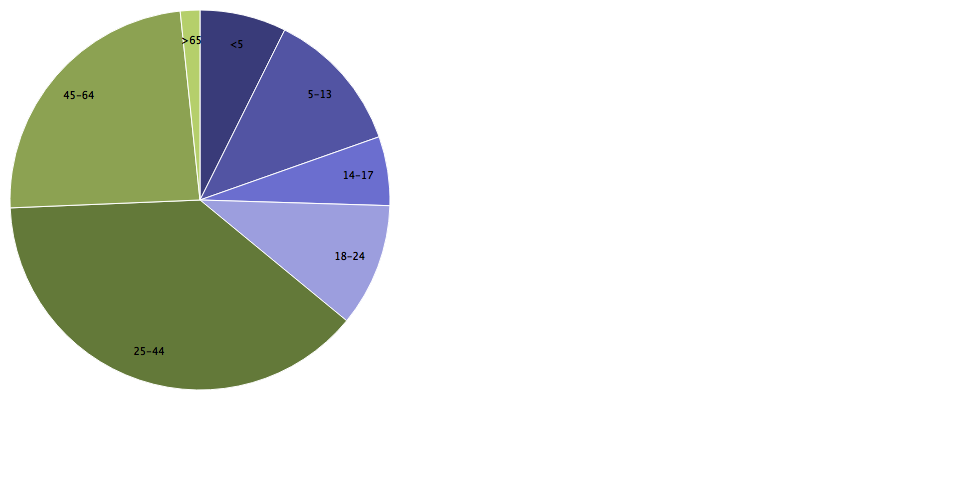
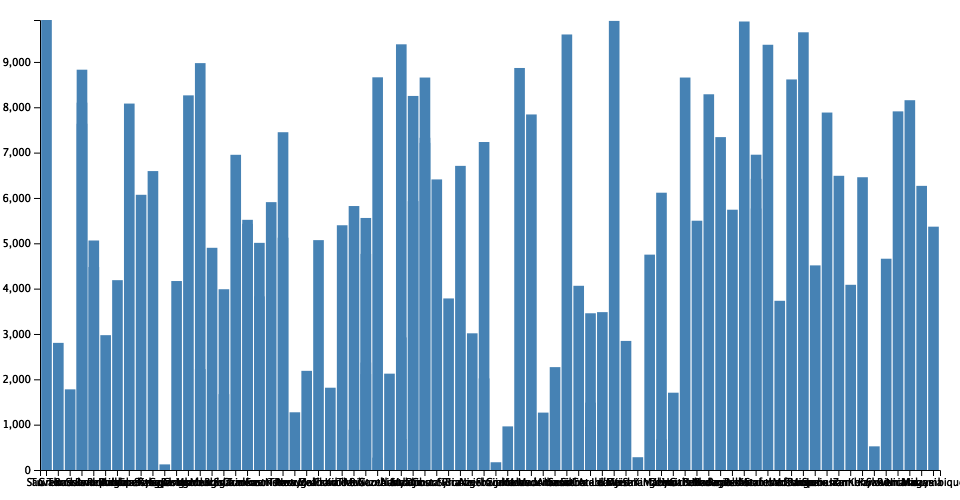
Changing default styles from CSS to SCSS

diff --git a/announcements-node/output.html b/announcements-node/output.html
@@ -1,8 +1,8 @@
 <html><head></head><body><div id="container">
-      <h2>Pie Chart</h2>
+      <h2>Bar Chart</h2>
       <div id="chart"><svg xmlns="http://www.w3.org/2000/svg" width="960" height="500"><defs><style type="text/css"><![CDATA[ 
-    .arc text {font: 10px sans-serif; text-anchor: middle;}
-    .arc path {stroke: #fff;}
-   ]]></style></defs><g transform="translate( 200 , 200 )"><g class="arc"><path d="M1.1634144591899855e-14,-190A190,190,0,0,1,84.74735355689664,-170.05259793693938L0,0Z" style="fill: #393b79;"></path><text transform="translate(36.65821846585564,-155.74394055278555)" dy=".35em">&lt;5</text></g><g class="arc"><path d="M84.74735355689664,-170.05259793693938A190,190,0,0,1,179.1708225838209,-63.228287456145594L0,0Z" style="fill: #5254a3;"></path><text transform="translate(119.88118735480641,-105.96462106949565)" dy=".35em">5-13</text></g><g class="arc"><path d="M179.1708225838209,-63.228287456145594A190,190,0,0,1,189.91463948905843,5.694708749441913L0,0Z" style="fill: #6b6ecf;"></path><text transform="translate(158.09080190056423,-24.64342416216873)" dy=".35em">14-17</text></g><g class="arc"><path d="M189.91463948905843,5.694708749441913A190,190,0,0,1,146.6886213390588,120.75780873155253L0,0Z" style="fill: #9c9ede;"></path><text transform="translate(149.7795371502396,56.26802156696109)" dy=".35em">18-24</text></g><g class="arc"><path d="M146.6886213390588,120.75780873155253A190,190,0,0,1,-189.83659389354435,7.8783005082015025L0,0Z" style="fill: #637939;"></path><text transform="translate(-50.88213468284223,151.69379806082088)" dy=".35em">25-44</text></g><g class="arc"><path d="M-189.83659389354435,7.8783005082015025A190,190,0,0,1,-19.855624283330453,-188.95966284982416L0,0Z" style="fill: #8ca252;"></path><text transform="translate(-121.0963839891443,-104.57373372292736)" dy=".35em">45-64</text></g><g class="arc"><path d="M-19.855624283330453,-188.95966284982416A190,190,0,0,1,-2.0365633351872334e-13,-190L0,0Z" style="fill: #b5cf6b;"></path><text transform="translate(-8.371730476415376,-159.78083154380647)" dy=".35em">&gt;65</text></g></g></svg></div>
+    .bar { fill: steelblue; }
+    .bar:hover { fill: brown; }
+   ]]></style></defs><g transform="translate(40, 20)"><rect class="bar" x="1.1826544021025711" width="10.643889618922469" y="0" height="450"></rect><rect class="bar" x="13.009198423127536" width="10.643889618922469" y="322.86649874055416" height="127.13350125944584"></rect><rect class="bar" x="24.8357424441525" width="10.643889618922469" y="369.34005037783373" height="80.65994962216627"></rect><rect class="bar" x="36.662286465177466" width="10.643889618922469" y="82.65491183879095" height="367.34508816120905"></rect><rect class="bar" x="48.48883048620243" width="10.643889618922469" y="220.48866498740557" height="229.51133501259443"></rect><rect class="bar" x="60.315374507227396" width="10.643889618922469" y="315.1586901763224" height="134.8413098236776"></rect><rect class="bar" x="72.14191852825236" width="10.643889618922469" y="260.16120906801007" height="189.83879093198993"></rect><rect class="bar" x="83.96846254927732" width="10.643889618922469" y="83.56171284634763" height="366.43828715365237"></rect><rect class="bar" x="95.79500657030229" width="10.643889618922469" y="174.78589420654913" height="275.21410579345087"></rect><rect class="bar" x="107.62155059132726" width="10.643889618922469" y="151.07304785894206" height="298.92695214105794"></rect><rect class="bar" x="119.44809461235222" width="10.643889618922469" y="444.3778337531486" height="5.622166246851407"></rect><rect class="bar" x="131.27463863337718" width="10.643889618922469" y="261.0226700251889" height="188.97732997481108"></rect><rect class="bar" x="143.10118265440215" width="10.643889618922469" y="75.35516372795968" height="374.6448362720403"></rect><rect class="bar" x="154.92772667542712" width="10.643889618922469" y="43.11838790931989" height="406.8816120906801"></rect><rect class="bar" x="166.75427069645207" width="10.643889618922469" y="227.78841309823676" height="222.21158690176324"></rect><rect class="bar" x="178.58081471747704" width="10.643889618922469" y="374.1460957178841" height="75.85390428211588"></rect><rect class="bar" x="190.407358738502" width="10.643889618922469" y="134.79596977329976" height="315.20403022670024"></rect><rect class="bar" x="202.23390275952698" width="10.643889618922469" y="203.80352644836273" height="246.19647355163727"></rect><rect class="bar" x="214.06044678055196" width="10.643889618922469" y="276.3476070528967" height="173.6523929471033"></rect><rect class="bar" x="225.8869908015769" width="10.643889618922469" y="182.13098236775818" height="267.8690176322418"></rect><rect class="bar" x="237.71353482260187" width="10.643889618922469" y="112.21662468513853" height="337.7833753148615"></rect><rect class="bar" x="249.54007884362684" width="10.643889618922469" y="392.2821158690176" height="57.717884130982384"></rect><rect class="bar" x="154.92772667542712" width="10.643889618922469" y="349.1183879093199" height="100.88161209068011"></rect><rect class="bar" x="261.3666228646518" width="10.643889618922469" y="350.8413098236776" height="99.15869017632241"></rect><rect class="bar" x="273.19316688567676" width="10.643889618922469" y="220.12594458438284" height="229.87405541561716"></rect><rect class="bar" x="285.01971090670173" width="10.643889618922469" y="367.70780856423175" height="82.29219143576825"></rect><rect class="bar" x="296.8462549277267" width="10.643889618922469" y="205.25440806045341" height="244.74559193954659"></rect><rect class="bar" x="308.6727989487517" width="10.643889618922469" y="186.0302267002519" height="263.9697732997481"></rect><rect class="bar" x="237.71353482260187" width="10.643889618922469" y="217.67758186397984" height="232.32241813602016"></rect><rect class="bar" x="320.49934296977665" width="10.643889618922469" y="342.544080604534" height="107.45591939546603"></rect><rect class="bar" x="332.32588699080156" width="10.643889618922469" y="57.3098236775819" height="392.6901763224181"></rect><rect class="bar" x="344.15243101182654" width="10.643889618922469" y="353.6523929471033" height="96.3476070528967"></rect><rect class="bar" x="355.9789750328515" width="10.643889618922469" y="317.42569269521414" height="132.57430730478586"></rect><rect class="bar" x="367.8055190538765" width="10.643889618922469" y="75.94458438287154" height="374.05541561712846"></rect><rect class="bar" x="379.63206307490145" width="10.643889618922469" y="117.7934508816121" height="332.2065491183879"></rect><rect class="bar" x="391.4586070959264" width="10.643889618922469" y="159.41561712846345" height="290.58438287153655"></rect><rect class="bar" x="403.2851511169514" width="10.643889618922469" y="278.43324937027705" height="171.56675062972295"></rect><rect class="bar" x="320.49934296977665" width="10.643889618922469" y="233.8639798488665" height="216.1360201511335"></rect><rect class="bar" x="415.11169513797637" width="10.643889618922469" y="145.8589420654912" height="304.1410579345088"></rect><rect class="bar" x="178.58081471747704" width="10.643889618922469" y="269.2292191435768" height="180.7707808564232"></rect><rect class="bar" x="426.93823915900134" width="10.643889618922469" y="313.2997481108313" height="136.70025188916873"></rect><rect class="bar" x="438.76478318002626" width="10.643889618922469" y="122.01007556675063" height="327.98992443324937"></rect><rect class="bar" x="320.49934296977665" width="10.643889618922469" y="354.01511335012594" height="95.98488664987406"></rect><rect class="bar" x="450.59132720105123" width="10.643889618922469" y="442.2468513853904" height="7.753148614609586"></rect><rect class="bar" x="367.8055190538765" width="10.643889618922469" y="181.13350125944584" height="268.86649874055416"></rect><rect class="bar" x="462.4178712220762" width="10.643889618922469" y="406.3828715365239" height="43.61712846347609"></rect><rect class="bar" x="474.2444152431012" width="10.643889618922469" y="47.96977329974811" height="402.0302267002519"></rect><rect class="bar" x="332.32588699080156" width="10.643889618922469" y="437.6221662468514" height="12.377833753148593"></rect><rect class="bar" x="486.07095926412615" width="10.643889618922469" y="94.44332493702768" height="355.5566750629723"></rect><rect class="bar" x="497.8975032851511" width="10.643889618922469" y="392.59949622166243" height="57.400503778337566"></rect><rect class="bar" x="509.7240473061761" width="10.643889618922469" y="347.1234256926952" height="102.8765743073048"></rect><rect class="bar" x="521.550591327201" width="10.643889618922469" y="14.463476070528998" height="435.536523929471"></rect><rect class="bar" x="533.377135348226" width="10.643889618922469" y="265.7833753148615" height="184.21662468513853"></rect><rect class="bar" x="545.203679369251" width="10.643889618922469" y="293.25944584382876" height="156.74055415617124"></rect><rect class="bar" x="36.662286465177466" width="10.643889618922469" y="103.73803526448364" height="346.26196473551636"></rect><rect class="bar" x="557.030223390276" width="10.643889618922469" y="292.12594458438286" height="157.87405541561714"></rect><rect class="bar" x="568.8567674113009" width="10.643889618922469" y="0.9068010075566804" height="449.0931989924433"></rect><rect class="bar" x="580.6833114323258" width="10.643889618922469" y="320.9168765743073" height="129.0831234256927"></rect><rect class="bar" x="592.5098554533508" width="10.643889618922469" y="437.21410579345087" height="12.78589420654913"></rect><rect class="bar" x="379.63206307490145" width="10.643889618922469" y="122.87153652392948" height="327.1284634760705"></rect><rect class="bar" x="355.9789750328515" width="10.643889618922469" y="419.0780856423174" height="30.921914357682624"></rect><rect class="bar" x="604.3363994743758" width="10.643889618922469" y="234.63476070528966" height="215.36523929471034"></rect><rect class="bar" x="202.23390275952698" width="10.643889618922469" y="199.81360201511336" height="250.18639798488664"></rect><rect class="bar" x="616.1629434954008" width="10.643889618922469" y="172.70025188916878" height="277.2997481108312"></rect><rect class="bar" x="627.9894875164257" width="10.643889618922469" y="372.69521410579347" height="77.30478589420653"></rect><rect class="bar" x="48.48883048620243" width="10.643889618922469" y="247.0125944584383" height="202.9874055415617"></rect><rect class="bar" x="639.8160315374507" width="10.643889618922469" y="57.53652392947106" height="392.46347607052894"></rect><rect class="bar" x="651.6425755584756" width="10.643889618922469" y="200.72040302267004" height="249.27959697732996"></rect><rect class="bar" x="663.4691195795006" width="10.643889618922469" y="74.26700251889167" height="375.7329974811083"></rect><rect class="bar" x="675.2956636005256" width="10.643889618922469" y="117.11335012594458" height="332.8866498740554"></rect><rect class="bar" x="214.06044678055196" width="10.643889618922469" y="222.8463476070529" height="227.1536523929471"></rect><rect class="bar" x="616.1629434954008" width="10.643889618922469" y="419.4861460957179" height="30.513853904282087"></rect><rect class="bar" x="687.1222076215505" width="10.643889618922469" y="189.70277078085638" height="260.2972292191436"></rect><rect class="bar" x="379.63206307490145" width="10.643889618922469" y="57.53652392947106" height="392.46347607052894"></rect><rect class="bar" x="698.9487516425755" width="10.643889618922469" y="1.4962216624685425" height="448.50377833753146"></rect><rect class="bar" x="710.7752956636004" width="10.643889618922469" y="134.7052896725441" height="315.2947103274559"></rect><rect class="bar" x="722.6018396846255" width="10.643889618922469" y="24.755667506297243" height="425.24433249370276"></rect><rect class="bar" x="734.4283837056504" width="10.643889618922469" y="280.79093198992445" height="169.20906801007555"></rect><rect class="bar" x="746.2549277266754" width="10.643889618922469" y="59.440806045340025" height="390.55919395466"></rect><rect class="bar" x="758.0814717477003" width="10.643889618922469" y="12.287153652392988" height="437.712846347607"></rect><rect class="bar" x="769.9080157687252" width="10.643889618922469" y="245.38035264483628" height="204.61964735516372"></rect><rect class="bar" x="781.7345597897503" width="10.643889618922469" y="92.53904282115872" height="357.4609571788413"></rect><rect class="bar" x="793.5611038107752" width="10.643889618922469" y="155.7884130982368" height="294.2115869017632"></rect><rect class="bar" x="805.3876478318002" width="10.643889618922469" y="264.78589420654913" height="185.21410579345087"></rect><rect class="bar" x="817.2141918528251" width="10.643889618922469" y="157.2392947103275" height="292.7607052896725"></rect><rect class="bar" x="710.7752956636004" width="10.643889618922469" y="158.82619647355165" height="291.17380352644835"></rect><rect class="bar" x="36.662286465177466" width="10.643889618922469" y="49.69269521410581" height="400.3073047858942"></rect><rect class="bar" x="320.49934296977665" width="10.643889618922469" y="197.95465994962217" height="252.04534005037783"></rect><rect class="bar" x="829.0407358738502" width="10.643889618922469" y="426.33249370277076" height="23.667506297229238"></rect><rect class="bar" x="840.8672798948751" width="10.643889618922469" y="238.7153652392947" height="211.2846347607053"></rect><rect class="bar" x="545.203679369251" width="10.643889618922469" y="407.0176322418136" height="42.9823677581864"></rect><rect class="bar" x="355.9789750328515" width="10.643889618922469" y="24.302267002518875" height="425.6977329974811"></rect><rect class="bar" x="438.76478318002626" width="10.643889618922469" y="358.36775818639796" height="91.63224181360204"></rect><rect class="bar" x="852.6938239159001" width="10.643889618922469" y="91.36020151133499" height="358.639798488665"></rect><rect class="bar" x="864.520367936925" width="10.643889618922469" y="80.20654911838795" height="369.79345088161205"></rect><rect class="bar" x="308.6727989487517" width="10.643889618922469" y="409.73803526448364" height="40.26196473551636"></rect><rect class="bar" x="876.3469119579499" width="10.643889618922469" y="165.85390428211588" height="284.1460957178841"></rect><rect class="bar" x="545.203679369251" width="10.643889618922469" y="382.6700251889169" height="67.3299748110831"></rect><rect class="bar" x="710.7752956636004" width="10.643889618922469" y="188.52392947103272" height="261.4760705289673"></rect><rect class="bar" x="888.173455978975" width="10.643889618922469" y="206.65994962216624" height="243.34005037783376"></rect><g transform="translate(0,450)" fill="none" font-size="10" font-family="sans-serif" text-anchor="middle"><path class="domain" stroke="#000" d="M0.5,6V0.5H900.5V6"></path><g class="tick" opacity="1" transform="translate(6.504599211563805,0)"><line stroke="#000" y2="6"></line><text fill="#000" y="9" dy="0.71em">Tuvalu</text></g><g class="tick" opacity="1" transform="translate(18.331143232588772,0)"><line stroke="#000" y2="6"></line><text fill="#000" y="9" dy="0.71em">Grenada</text></g><g class="tick" opacity="1" transform="translate(30.157687253613737,0)"><line stroke="#000" y2="6"></line><text fill="#000" y="9" dy="0.71em">Russia</text></g><g class="tick" opacity="1" transform="translate(41.9842312746387,0)"><line stroke="#000" y2="6"></line><text fill="#000" y="9" dy="0.71em">Sao Tome and Principe</text></g><g class="tick" opacity="1" transform="translate(53.81077529566367,0)"><line stroke="#000" y2="6"></line><text fill="#000" y="9" dy="0.71em">Rwanda</text></g><g class="tick" opacity="1" transform="translate(65.63731931668863,0)"><line stroke="#000" y2="6"></line><text fill="#000" y="9" dy="0.71em">Solomon Islands</text></g><g class="tick" opacity="1" transform="translate(77.46386333771359,0)"><line stroke="#000" y2="6"></line><text fill="#000" y="9" dy="0.71em">Angola</text></g><g class="tick" opacity="1" transform="translate(89.29040735873855,0)"><line stroke="#000" y2="6"></line><text fill="#000" y="9" dy="0.71em">Burkina Faso</text></g><g class="tick" opacity="1" transform="translate(101.11695137976352,0)"><line stroke="#000" y2="6"></line><text fill="#000" y="9" dy="0.71em">Republic of the Congo</text></g><g class="tick" opacity="1" transform="translate(112.94349540078849,0)"><line stroke="#000" y2="6"></line><text fill="#000" y="9" dy="0.71em">Senegal</text></g><g class="tick" opacity="1" transform="translate(124.77003942181345,0)"><line stroke="#000" y2="6"></line><text fill="#000" y="9" dy="0.71em">Kyrgyzstan</text></g><g class="tick" opacity="1" transform="translate(136.5965834428384,0)"><line stroke="#000" y2="6"></line><text fill="#000" y="9" dy="0.71em">Cape Verde</text></g><g class="tick" opacity="1" transform="translate(148.42312746386338,0)"><line stroke="#000" y2="6"></line><text fill="#000" y="9" dy="0.71em">Bangladesh</text></g><g class="tick" opacity="1" transform="translate(160.24967148488835,0)"><line stroke="#000" y2="6"></line><text fill="#000" y="9" dy="0.71em">Honduras</text></g><g class="tick" opacity="1" transform="translate(172.0762155059133,0)"><line stroke="#000" y2="6"></line><text fill="#000" y="9" dy="0.71em">Mongolia</text></g><g class="tick" opacity="1" transform="translate(183.90275952693827,0)"><line stroke="#000" y2="6"></line><text fill="#000" y="9" dy="0.71em">Bulgaria</text></g><g class="tick" opacity="1" transform="translate(195.72930354796324,0)"><line stroke="#000" y2="6"></line><text fill="#000" y="9" dy="0.71em">Sri Lanka</text></g><g class="tick" opacity="1" transform="translate(207.5558475689882,0)"><line stroke="#000" y2="6"></line><text fill="#000" y="9" dy="0.71em">Cameroon</text></g><g class="tick" opacity="1" transform="translate(219.38239159001319,0)"><line stroke="#000" y2="6"></line><text fill="#000" y="9" dy="0.71em">Turkmenistan</text></g><g class="tick" opacity="1" transform="translate(231.20893561103813,0)"><line stroke="#000" y2="6"></line><text fill="#000" y="9" dy="0.71em">East Timor</text></g><g class="tick" opacity="1" transform="translate(243.0354796320631,0)"><line stroke="#000" y2="6"></line><text fill="#000" y="9" dy="0.71em">Norway</text></g><g class="tick" opacity="1" transform="translate(254.86202365308807,0)"><line stroke="#000" y2="6"></line><text fill="#000" y="9" dy="0.71em">Portugal</text></g><g class="tick" opacity="1" transform="translate(266.688567674113,0)"><line stroke="#000" y2="6"></line><text fill="#000" y="9" dy="0.71em">New Zealand</text></g><g class="tick" opacity="1" transform="translate(278.515111695138,0)"><line stroke="#000" y2="6"></line><text fill="#000" y="9" dy="0.71em">Moldova </text></g><g class="tick" opacity="1" transform="translate(290.34165571616296,0)"><line stroke="#000" y2="6"></line><text fill="#000" y="9" dy="0.71em">France</text></g><g class="tick" opacity="1" transform="translate(302.16819973718793,0)"><line stroke="#000" y2="6"></line><text fill="#000" y="9" dy="0.71em">Kiribati</text></g><g class="tick" opacity="1" transform="translate(313.9947437582129,0)"><line stroke="#000" y2="6"></line><text fill="#000" y="9" dy="0.71em">Mali</text></g><g class="tick" opacity="1" transform="translate(325.8212877792379,0)"><line stroke="#000" y2="6"></line><text fill="#000" y="9" dy="0.71em">The Gambia</text></g><g class="tick" opacity="1" transform="translate(337.6478318002628,0)"><line stroke="#000" y2="6"></line><text fill="#000" y="9" dy="0.71em">Switzerland</text></g><g class="tick" opacity="1" transform="translate(349.47437582128777,0)"><line stroke="#000" y2="6"></line><text fill="#000" y="9" dy="0.71em">South Sudan</text></g><g class="tick" opacity="1" transform="translate(361.30091984231274,0)"><line stroke="#000" y2="6"></line><text fill="#000" y="9" dy="0.71em">Australia</text></g><g class="tick" opacity="1" transform="translate(373.1274638633377,0)"><line stroke="#000" y2="6"></line><text fill="#000" y="9" dy="0.71em">Myanmar</text></g><g class="tick" opacity="1" transform="translate(384.9540078843627,0)"><line stroke="#000" y2="6"></line><text fill="#000" y="9" dy="0.71em">Djibouti</text></g><g class="tick" opacity="1" transform="translate(396.78055190538765,0)"><line stroke="#000" y2="6"></line><text fill="#000" y="9" dy="0.71em">Costa Rica</text></g><g class="tick" opacity="1" transform="translate(408.6070959264126,0)"><line stroke="#000" y2="6"></line><text fill="#000" y="9" dy="0.71em">Syria</text></g><g class="tick" opacity="1" transform="translate(420.4336399474376,0)"><line stroke="#000" y2="6"></line><text fill="#000" y="9" dy="0.71em">Brunei</text></g><g class="tick" opacity="1" transform="translate(432.26018396846257,0)"><line stroke="#000" y2="6"></line><text fill="#000" y="9" dy="0.71em">Niger</text></g><g class="tick" opacity="1" transform="translate(444.0867279894875,0)"><line stroke="#000" y2="6"></line><text fill="#000" y="9" dy="0.71em">Azerbaijan</text></g><g class="tick" opacity="1" transform="translate(455.91327201051246,0)"><line stroke="#000" y2="6"></line><text fill="#000" y="9" dy="0.71em">Slovakia</text></g><g class="tick" opacity="1" transform="translate(467.73981603153743,0)"><line stroke="#000" y2="6"></line><text fill="#000" y="9" dy="0.71em">Comoros</text></g><g class="tick" opacity="1" transform="translate(479.5663600525624,0)"><line stroke="#000" y2="6"></line><text fill="#000" y="9" dy="0.71em">Iceland</text></g><g class="tick" opacity="1" transform="translate(491.3929040735874,0)"><line stroke="#000" y2="6"></line><text fill="#000" y="9" dy="0.71em">Macedonia</text></g><g class="tick" opacity="1" transform="translate(503.21944809461235,0)"><line stroke="#000" y2="6"></line><text fill="#000" y="9" dy="0.71em">Mauritania</text></g><g class="tick" opacity="1" transform="translate(515.0459921156373,0)"><line stroke="#000" y2="6"></line><text fill="#000" y="9" dy="0.71em">Albania</text></g><g class="tick" opacity="1" transform="translate(526.8725361366622,0)"><line stroke="#000" y2="6"></line><text fill="#000" y="9" dy="0.71em">Lesotho</text></g><g class="tick" opacity="1" transform="translate(538.6990801576873,0)"><line stroke="#000" y2="6"></line><text fill="#000" y="9" dy="0.71em">Saudi Arabia</text></g><g class="tick" opacity="1" transform="translate(550.5256241787122,0)"><line stroke="#000" y2="6"></line><text fill="#000" y="9" dy="0.71em">Sierra Leone</text></g><g class="tick" opacity="1" transform="translate(562.3521681997372,0)"><line stroke="#000" y2="6"></line><text fill="#000" y="9" dy="0.71em">Cote d'Ivoire</text></g><g class="tick" opacity="1" transform="translate(574.1787122207621,0)"><line stroke="#000" y2="6"></line><text fill="#000" y="9" dy="0.71em">Fiji</text></g><g class="tick" opacity="1" transform="translate(586.005256241787,0)"><line stroke="#000" y2="6"></line><text fill="#000" y="9" dy="0.71em">Austria</text></g><g class="tick" opacity="1" transform="translate(597.8318002628121,0)"><line stroke="#000" y2="6"></line><text fill="#000" y="9" dy="0.71em">United Kingdom</text></g><g class="tick" opacity="1" transform="translate(609.658344283837,0)"><line stroke="#000" y2="6"></line><text fill="#000" y="9" dy="0.71em">San Marino</text></g><g class="tick" opacity="1" transform="translate(621.484888304862,0)"><line stroke="#000" y2="6"></line><text fill="#000" y="9" dy="0.71em">Libya</text></g><g class="tick" opacity="1" transform="translate(633.3114323258869,0)"><line stroke="#000" y2="6"></line><text fill="#000" y="9" dy="0.71em">Haiti</text></g><g class="tick" opacity="1" transform="translate(645.137976346912,0)"><line stroke="#000" y2="6"></line><text fill="#000" y="9" dy="0.71em">Gabon</text></g><g class="tick" opacity="1" transform="translate(656.9645203679369,0)"><line stroke="#000" y2="6"></line><text fill="#000" y="9" dy="0.71em">Belize</text></g><g class="tick" opacity="1" transform="translate(668.7910643889618,0)"><line stroke="#000" y2="6"></line><text fill="#000" y="9" dy="0.71em">Lithuania</text></g><g class="tick" opacity="1" transform="translate(680.6176084099868,0)"><line stroke="#000" y2="6"></line><text fill="#000" y="9" dy="0.71em">Madagascar</text></g><g class="tick" opacity="1" transform="translate(692.4441524310117,0)"><line stroke="#000" y2="6"></line><text fill="#000" y="9" dy="0.71em">Democratic Republic of the Congo</text></g><g class="tick" opacity="1" transform="translate(704.2706964520368,0)"><line stroke="#000" y2="6"></line><text fill="#000" y="9" dy="0.71em">Pakistan</text></g><g class="tick" opacity="1" transform="translate(716.0972404730617,0)"><line stroke="#000" y2="6"></line><text fill="#000" y="9" dy="0.71em">Mexico</text></g><g class="tick" opacity="1" transform="translate(727.9237844940867,0)"><line stroke="#000" y2="6"></line><text fill="#000" y="9" dy="0.71em">Federated States of Micronesia</text></g><g class="tick" opacity="1" transform="translate(739.7503285151116,0)"><line stroke="#000" y2="6"></line><text fill="#000" y="9" dy="0.71em">Laos</text></g><g class="tick" opacity="1" transform="translate(751.5768725361366,0)"><line stroke="#000" y2="6"></line><text fill="#000" y="9" dy="0.71em">Monaco</text></g><g class="tick" opacity="1" transform="translate(763.4034165571616,0)"><line stroke="#000" y2="6"></line><text fill="#000" y="9" dy="0.71em">Samoa </text></g><g class="tick" opacity="1" transform="translate(775.2299605781865,0)"><line stroke="#000" y2="6"></line><text fill="#000" y="9" dy="0.71em">Spain</text></g><g class="tick" opacity="1" transform="translate(787.0565045992115,0)"><line stroke="#000" y2="6"></line><text fill="#000" y="9" dy="0.71em">Lebanon</text></g><g class="tick" opacity="1" transform="translate(798.8830486202364,0)"><line stroke="#000" y2="6"></line><text fill="#000" y="9" dy="0.71em">Iran</text></g><g class="tick" opacity="1" transform="translate(810.7095926412615,0)"><line stroke="#000" y2="6"></line><text fill="#000" y="9" dy="0.71em">Zambia</text></g><g class="tick" opacity="1" transform="translate(822.5361366622864,0)"><line stroke="#000" y2="6"></line><text fill="#000" y="9" dy="0.71em">Kenya</text></g><g class="tick" opacity="1" transform="translate(834.3626806833114,0)"><line stroke="#000" y2="6"></line><text fill="#000" y="9" dy="0.71em">Kuwait</text></g><g class="tick" opacity="1" transform="translate(846.1892247043363,0)"><line stroke="#000" y2="6"></line><text fill="#000" y="9" dy="0.71em">Slovenia</text></g><g class="tick" opacity="1" transform="translate(858.0157687253613,0)"><line stroke="#000" y2="6"></line><text fill="#000" y="9" dy="0.71em">Romania</text></g><g class="tick" opacity="1" transform="translate(869.8423127463863,0)"><line stroke="#000" y2="6"></line><text fill="#000" y="9" dy="0.71em">Nicaragua</text></g><g class="tick" opacity="1" transform="translate(881.6688567674112,0)"><line stroke="#000" y2="6"></line><text fill="#000" y="9" dy="0.71em">Malaysia</text></g><g class="tick" opacity="1" transform="translate(893.4954007884362,0)"><line stroke="#000" y2="6"></line><text fill="#000" y="9" dy="0.71em">Mozambique</text></g></g><g fill="none" font-size="10" font-family="sans-serif" text-anchor="end"><path class="domain" stroke="#000" d="M-6,450.5H0.5V0.5H-6"></path><g class="tick" opacity="1" transform="translate(0,450.5)"><line stroke="#000" x2="-6"></line><text fill="#000" x="-9" dy="0.32em">0</text></g><g class="tick" opacity="1" transform="translate(0,405.15994962216627)"><line stroke="#000" x2="-6"></line><text fill="#000" x="-9" dy="0.32em">1,000</text></g><g class="tick" opacity="1" transform="translate(0,359.8198992443325)"><line stroke="#000" x2="-6"></line><text fill="#000" x="-9" dy="0.32em">2,000</text></g><g class="tick" opacity="1" transform="translate(0,314.47984886649874)"><line stroke="#000" x2="-6"></line><text fill="#000" x="-9" dy="0.32em">3,000</text></g><g class="tick" opacity="1" transform="translate(0,269.13979848866495)"><line stroke="#000" x2="-6"></line><text fill="#000" x="-9" dy="0.32em">4,000</text></g><g class="tick" opacity="1" transform="translate(0,223.79974811083122)"><line stroke="#000" x2="-6"></line><text fill="#000" x="-9" dy="0.32em">5,000</text></g><g class="tick" opacity="1" transform="translate(0,178.45969773299748)"><line stroke="#000" x2="-6"></line><text fill="#000" x="-9" dy="0.32em">6,000</text></g><g class="tick" opacity="1" transform="translate(0,133.11964735516375)"><line stroke="#000" x2="-6"></line><text fill="#000" x="-9" dy="0.32em">7,000</text></g><g class="tick" opacity="1" transform="translate(0,87.77959697732996)"><line stroke="#000" x2="-6"></line><text fill="#000" x="-9" dy="0.32em">8,000</text></g><g class="tick" opacity="1" transform="translate(0,42.439546599496225)"><line stroke="#000" x2="-6"></line><text fill="#000" x="-9" dy="0.32em">9,000</text></g></g></g></svg></div>
     </div>
   </body></html>

diff --git a/announcements-node/controller/announcement.controller.js b/announcements-node/controller/announcement.controller.js
@@ -3,12 +3,12 @@ const csv = require('csv');
 
 const d3nBar = require('d3node-barchart');
 const d3nPie = require('d3node-piechart');
+const d3nLine = require('d3node-linechart');
 const d3 = require('d3-node')().d3;
+const parseTime = d3.timeParse('%d-%b-%y');
 const output = require('d3node-output');
 
-let dataTest = [['<5', '5-13', '14-17', '18-24'],[2704659, 4499890, 2159981, 3853788]];
-
-exports.createNew = function (req, res) {
+exports.createPieChart = function (req, res) {
     console.log("File", req.file);
     csv.parse(req.file.buffer, function(err, data){
         if (err) throw err;
@@ -16,13 +16,49 @@ exports.createNew = function (req, res) {
             console.log(data1);
             let test = d3.csvParse(data1, function(d) {
                 return {
-                    label:d.label,
-                    value:d.value
+                    label:d.Country,
+                    value:d['Units Sold']
                 };
             });
             console.log(test);
             output('./output', d3nPie({ data: test }));
         });
 
+    });
+};
+
+exports.createBarChart = function (req, res) {
+    console.log("File", req.file);
+    csv.parse(req.file.buffer, function(err, data){
+        if (err) throw err;
+        csv.stringify(data, function(err, data1){
+            console.log(data1);
+            let test = d3.csvParse(data1, function(d) {
+                return {
+                    key:d.Country,
+                    value:d['Units Sold']
+                };
+            });
+            console.log(test);
+            output('./output', d3nBar({ data: test }));
+        });
+    });
+};
+
+exports.createLineChart = function (req, res) {
+    console.log("File", req.file);
+    csv.parse(req.file.buffer, function(err, data){
+        if (err) throw err;
+        csv.stringify(data, function(err, data1){
+            console.log(data1);
+            let test = d3.tsvParse(data1, function(d) {
+                return {
+                    key: parseTime(d.date),
+                    value: +d.close
+                };
+            });
+            console.log(test);
+            output('./output', d3nLine({ data: test }));
+        });
     });
 };

diff --git a/announcements-node/routes/announcementsRouter.js b/announcements-node/routes/announcementsRouter.js
@@ -33,6 +33,10 @@ router.use(function (req, res, next) {
     }
 });
 
-router.post('/create', uploadFile.single('file'), announcementController.createNew);
+router.post('/createPieChart', uploadFile.single('file'), announcementController.createPieChart);
+
+router.post('/createBarChart', uploadFile.single('file'), announcementController.createBarChart);
+
+router.post('/createLineChart', uploadFile.single('file'), announcementController.createLineChart);
 
 module.exports = router;

diff --git a/announcementsFrontend/src/app/userservices/singup/singup.component.ts b/announcementsFrontend/src/app/userservices/singup/singup.component.ts
@@ -4,7 +4,7 @@ import { Component, OnInit } from '@angular/core';
 @Component({
   selector: 'app-singup',
   templateUrl: './singup.component.html',
-  styleUrls: ['./singup.component.css']
+  styleUrls: ['./singup.component.scss']
 })
 export class SingupComponent implements OnInit {
 

diff --git a/announcementsFrontend/src/app/userservices/login/login.component.ts b/announcementsFrontend/src/app/userservices/login/login.component.ts
@@ -3,7 +3,7 @@ import { Component, OnInit } from '@angular/core';
 @Component({
   selector: 'app-login',
   templateUrl: './login.component.html',
-  styleUrls: ['./login.component.css']
+  styleUrls: ['./login.component.scss']
 })
 export class LoginComponent implements OnInit {
 

diff --git a/announcementsFrontend/src/app/app.component.ts b/announcementsFrontend/src/app/app.component.ts
@@ -3,7 +3,7 @@ import { Component } from '@angular/core';
 @Component({
   selector: 'app-root',
   templateUrl: './app.component.html',
-  styleUrls: ['./app.component.css']
+  styleUrls: ['./app.component.scss']
 })
 export class AppComponent {
   title = 'app';
